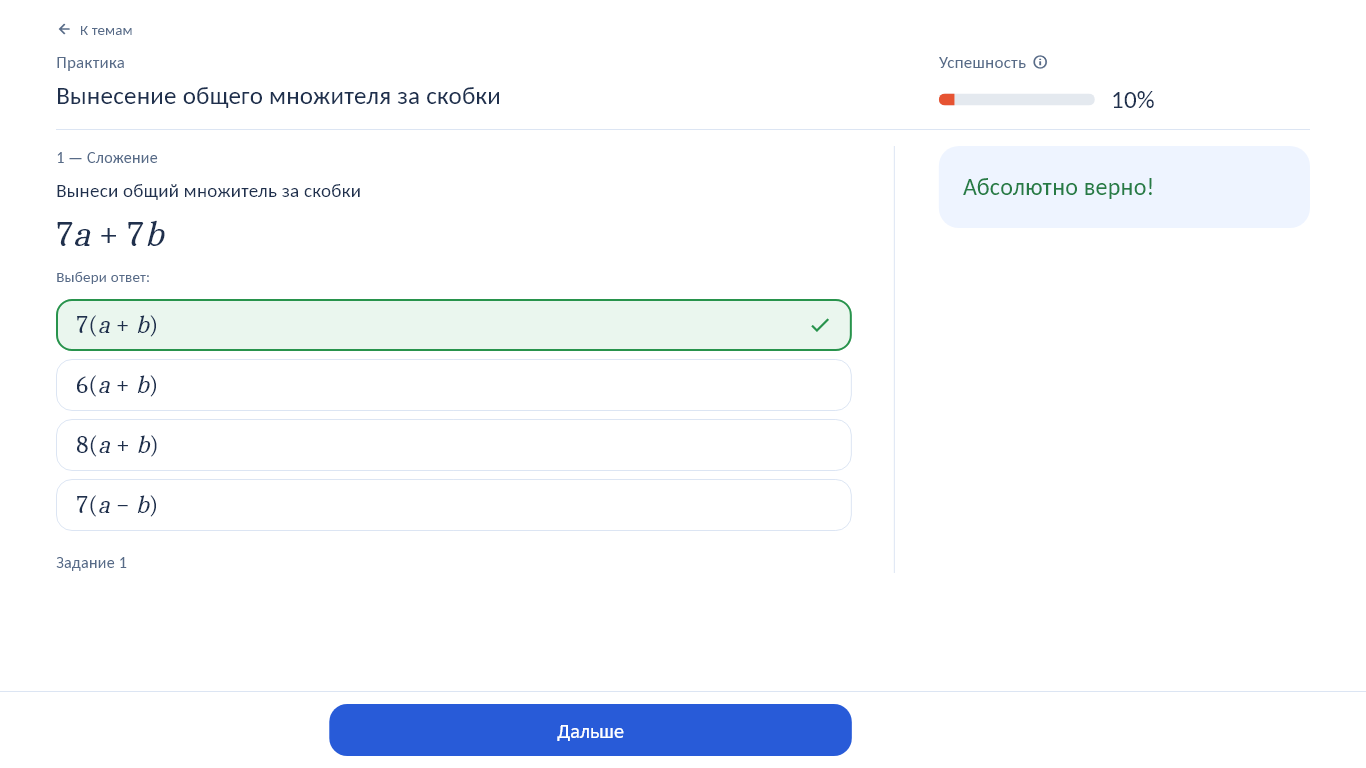
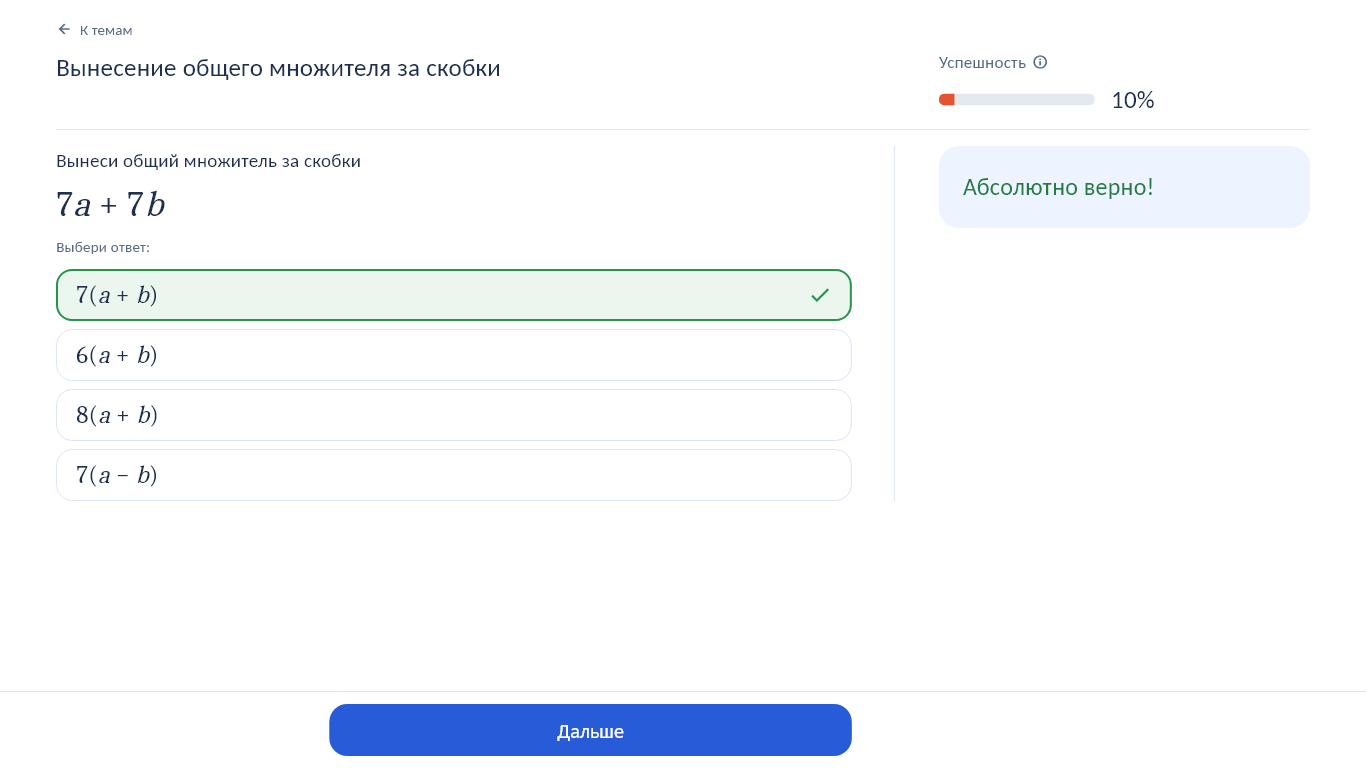
Record compact practice screen verification [skip ci]

Changed region(s): [[0.0307, 0.1875, 0.6457, 0.6875], [0.0307, 0.0625, 0.369, 0.1562], [0.0307, 0.7188, 0.0922, 0.75]]

diff --git a/docs/development_status.md b/docs/development_status.md
@@ -444,3 +444,5 @@
 * По поручению владельца на реальном экране практики и истории убраны подпись «Практика», название блока и нижний номер задания со связанными отступами. Тема, условие, формула, успешность, обратная связь и действия сохранены. Общий компонент поддерживает отключение подписи без изменения других экранов; HTML-макеты не менялись. Проверки переходов используют внутренние ключи заданий вместо удалённых надписей. Анализ, тесты и публикация выполняются.
 
 * flutter analyze --no-pub без замечаний; все 134 теста прошли, включая редактирование при 1024×620 и 615×524 и переходы по истории. Обновление отправляется через GitHub Actions; снимки и результат публикации будут зафиксированы после проверки.
+
+* Четыре теста рендера прошли в двух темах при 1366×768/1920×1080, снимки обновлены; просмотрен светлый экран правильного ввода при 1366×768. Web-сборка с /math_trainer/ успешна. GitHub Actions 38877822215 успешно выполнил проверки и публикацию c0cacea. HTTPS-страница и main.dart.js отвечают HTTP 200, JavaScript обновился. Браузерная визуальная проверка и полная мобильная адаптация не выполнялись; прокрутка при переполнении сохраняется.
